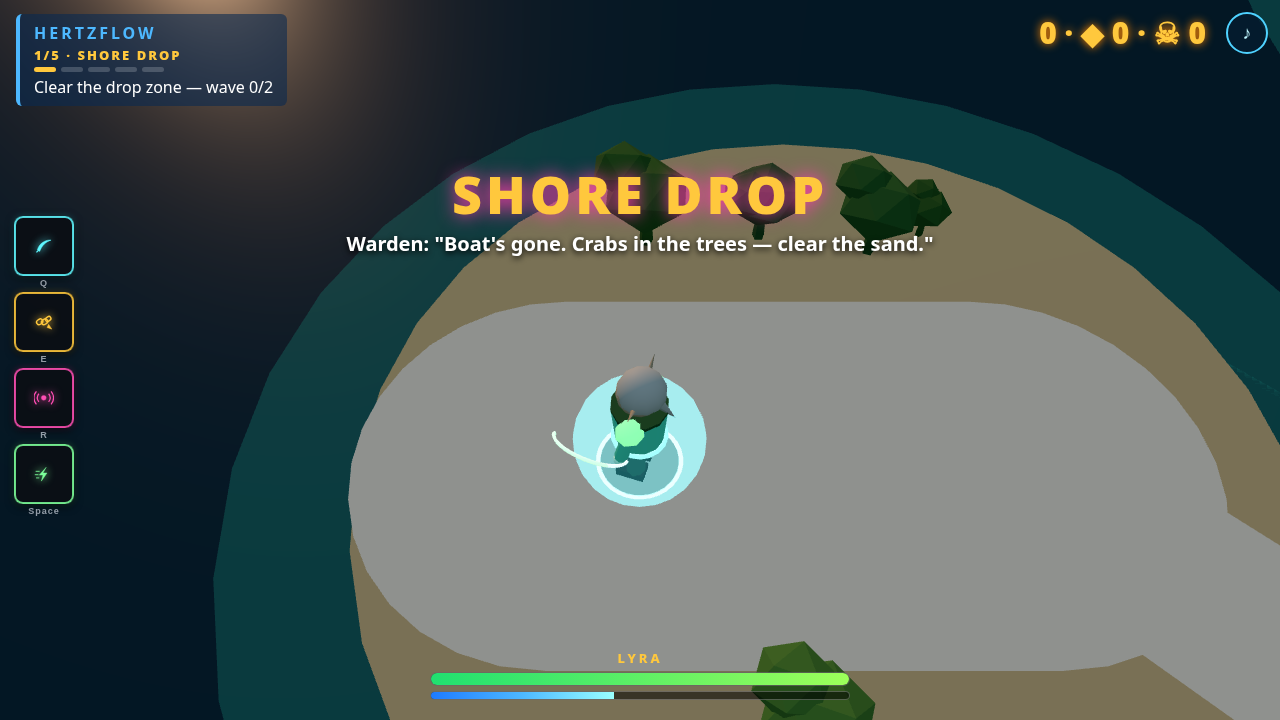
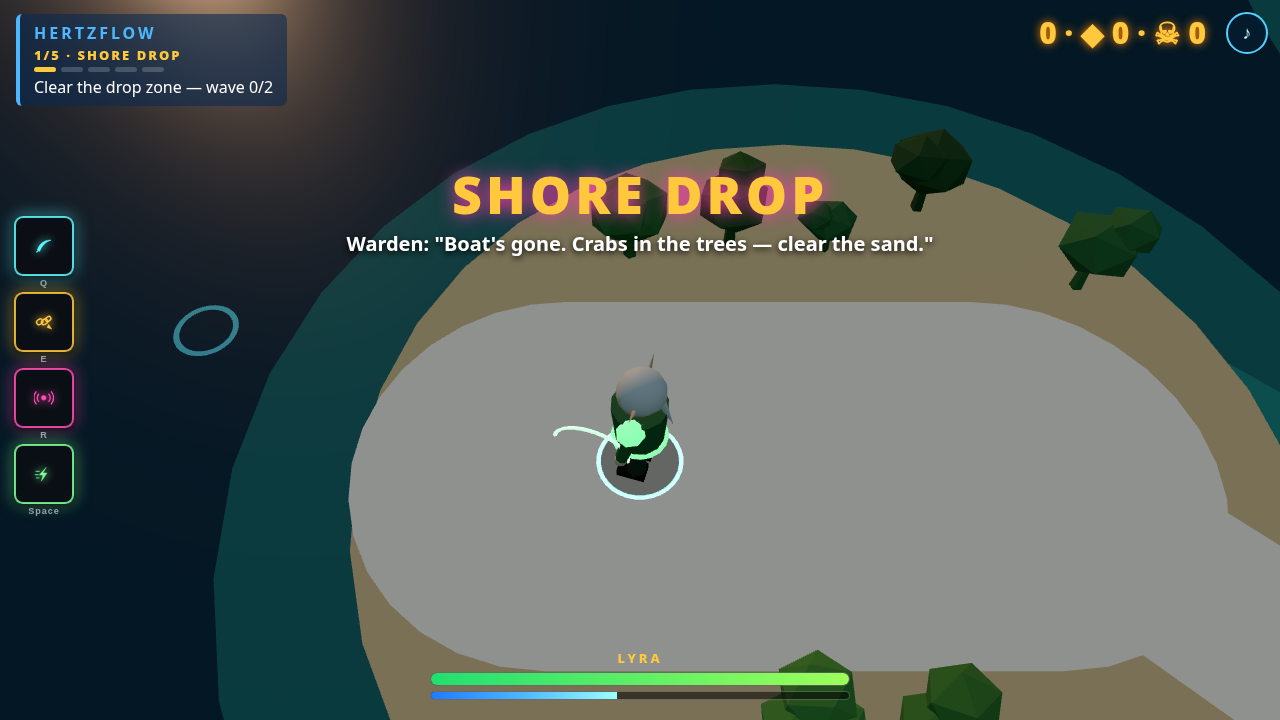
Combat feel: 18u acquire, canopy-edge spawn telegraph, cyan reticle + sticky cone, yaw dead-zone, clearer dodge hop, in-range foe name/HP

diff --git a/public/game.js b/public/game.js
@@ -410,9 +410,9 @@ const STATIC_COL = new THREE.Color(0xd8204e), HIT_COL = new THREE.Color(0xffffff
 
 // ===== enemies (crabs instanced; runners/brutes share STATIC) =====
 const TYPES = {
-  crab: { hp: 18, sp: 6, dmg: 3, r: .9, xp: 1 },
-  wick: { hp: 14, sp: 9.5, dmg: 3, r: .7, xp: 1 },
-  brute: { hp: 260, sp: 3.2, dmg: 22, r: 2.2, xp: 8 },
+  crab: { name: 'Driftwood Crab', hp: 18, sp: 6, dmg: 3, r: .9, xp: 1 },
+  wick: { name: 'Wick Runner', hp: 14, sp: 9.5, dmg: 3, r: .7, xp: 1 },
+  brute: { name: 'Red Candle Brute', hp: 260, sp: 3.2, dmg: 22, r: 2.2, xp: 8 },
 };
 const MAXC = 320;
 function mergeG(list) { // tiny merge (non-indexed) so a crab part stays ONE instanced draw
@@ -478,8 +478,10 @@ function floatTxt(p, t, big = false, col = '#fff') { const v = +t;
 function drawOverlay(dt) {
   const w = innerWidth, h = innerHeight; if (ov.width !== w * DPR) { DPR = Math.min(devicePixelRatio, 2); ov.width = w * DPR; ov.height = h * DPR; }
   ox.setTransform(DPR, 0, 0, DPR, 0, 0); ox.clearRect(0, 0, w, h); if (S.mode !== 'play' && S.mode !== 'end') return;
-  for (const e of enemies) { if (e.hp >= e.mhp) continue; const [sx, sy] = toScreen(e.pos, e.type === 'brute' ? 7 : 3.2), bw = e.type === 'brute' ? 70 : 30;
-    ox.fillStyle = 'rgba(0,0,0,.7)'; ox.fillRect(sx - bw / 2 - 1, sy - 1, bw + 2, 5); ox.fillStyle = '#ff2a3a'; ox.fillRect(sx - bw / 2, sy, bw * Math.max(0, e.hp / e.mhp), 3); }
+  ox.textAlign = 'center'; ox.font = '600 10px system-ui,sans-serif';
+  for (const e of enemies) { const d = Math.hypot(e.pos.x - zayn.position.x, e.pos.z - zayn.position.z); if (d > ACQ && e.type !== 'brute') continue; const [sx, sy] = toScreen(e.pos, e.type === 'brute' ? 7 : 3.2), bw = e.type === 'brute' ? 70 : 28;
+    ox.fillStyle = 'rgba(0,0,0,.7)'; ox.fillRect(sx - bw / 2 - 1, sy - 1, bw + 2, 5); ox.fillStyle = '#ff2a3a'; ox.fillRect(sx - bw / 2, sy, bw * Math.max(0, e.hp / e.mhp), 3);
+    if (e === S.lock || e.type === 'brute') { ox.lineWidth = 3; ox.strokeStyle = 'rgba(0,0,0,.8)'; ox.strokeText(e.T.name, sx, sy - 5); ox.fillStyle = e === S.lock ? '#bff8ff' : '#e8e8e8'; ox.fillText(e.T.name, sx, sy - 5); } }
   ox.textAlign = 'center'; ox.lineJoin = 'round';
   for (let i = nums.length - 1; i >= 0; i--) { const n = nums[i]; n.t += dt; if (n.t > .9) { nums.splice(i, 1); continue; }
     n.vy += 900 * dt; const [sx, sy] = toScreen(n, n.y); n.ox = (n.ox || 0) + n.vx * dt; n.oy = Math.min((n.oy || 0) + n.vy * dt, 10);
@@ -511,10 +513,10 @@ const show = (id, on) => $(id).classList.toggle('hide', !on);
 const BG_DAY = new THREE.Color(0xffc49a), BG_DARK = new THREE.Color(0x0a0c12);
 function setArena(on) { const zc = MODELS.zayn && MODELS.zayn.userData.combat; if (zc) zc(on); arena.visible = on; decor.forEach(o => o.visible = !on); ocean.visible = !on; scene.background = on ? new THREE.Color(MAP.fog) : BG_DAY; scene.fog.color.set(on ? MAP.fog : 0xffd2a8); scene.fog.near = on ? 70 : 90; scene.fog.far = on ? 170 : 320; hemi.intensity = on ? (MAP.storm ? .55 : .75) : 1.1; sun.intensity = on ? (MAP.storm ? .6 : 1.1) : 1.9; sky.visible = !on; }
 
-function clearField() { enemies.forEach(e => e.mesh && scene.remove(e.mesh)); enemies.length = 0; gems.length = 0; nums.length = 0; decals.forEach(d => scene.remove(d.m)); decals.length = 0; }
+function clearField() { S.runTok = (S.runTok || 0) + 1; enemies.forEach(e => e.mesh && scene.remove(e.mesh)); enemies.length = 0; gems.length = 0; nums.length = 0; decals.forEach(d => scene.remove(d.m)); decals.length = 0; }
 function startCine() {
   $('#title').classList.remove('on'); show('#title', false); show('#cine', true); show('#hud', false); show('#end', false);
-  S.mode = 'over'; S.t = 0; boat.visible = false; setArena(false); clearField(); shield.visible = false; clouds.visible = true; scene.fog.far = 2000; cover.forEach(c => c.material.opacity = 0); scene.add(crumb);
+  S.mode = 'over'; S.t = 0; reticle.visible = false; boat.visible = false; setArena(false); clearField(); shield.visible = false; clouds.visible = true; scene.fog.far = 2000; cover.forEach(c => c.material.opacity = 0); scene.add(crumb);
   // overview flies the selected map's logo silhouette (green canopy), not the old archipelago
   buildMap(MAPID); arena.visible = true; decor.forEach(o => o.visible = false); ocean.visible = false; scene.background = new THREE.Color(MAP.fog);
   { const bb = new THREE.Box3(); mapG.children.forEach(c => { if (c.geometry && c.geometry.type !== 'PlaneGeometry') bb.expandByObject(c); }); const c = bb.getCenter(new THREE.Vector3()), sz = bb.getSize(new THREE.Vector3()); S.ovC = [c.x, c.z]; S.ovR = Math.max(sz.x, sz.z); }
@@ -558,7 +560,8 @@ function spawn(type, ang) { const T = TYPES[type], a = ang ?? Math.random() * 6.
   const bs = type === 'brute' && SECTIONS[S.sec] && SECTIONS[S.sec].boss, e = { type, T, pos: bs ? new THREE.Vector3(bs[0], 0, bs[1]) : landSpawn(ang), hp: T.hp * (1 + (S.sec || 0) * .35 + Math.max(0, S.wave - 1) * .15), mhp: T.hp * (1 + (S.sec || 0) * .35 + Math.max(0, S.wave - 1) * .15), stun: 0, kb: new THREE.Vector3(), atk: 0, hit: 0, tel: 0, yaw: 0, mesh: type === 'crab' ? null : makeMesh(type) };
   
   if (type === 'brute') { e.mesh.scale.setScalar(1.15); banner('RED CANDLE BRUTE', '#ff2a5a'); }
-  enemies.push(e); burst(e.pos.clone().setY(1), [0xff1450, 0xa24cff], 10, 5, 4);
+  if (bs) { enemies.push(e); return; }
+  ring(e.pos, 0xff2bd6, 2.4, .4, .25, .06); const tok = S.runTok; setTimeout(() => { if (S.runTok === tok && S.mode === 'play') enemies.push(e); }, 400); // 0.4s canopy-edge rim telegraph
 }
 function best() { const b = Math.max(+localStorage.getItem('sw_best') || 0, S.score); localStorage.setItem('sw_best', b); return b; }
 function win() { addMerits(S.xp + 100); S.mode = 'end'; setTimeout(() => { show('#retry', false); tower.visible = false; $('#endT').textContent = 'MISSION COMPLETE'; $('#endT').style.color = '#4DB8FF'; $('#endS').textContent = `${MAP.name} secured · ${S.kills} Static cleared · ${S.xp} gems · score ${S.score} · best ${best()}. Next: Moonleaf Oval. +${S.xp + 100} Merits (◆ ${merits()}).`; show('#end', true); }, 900); }
@@ -632,6 +635,7 @@ function use(p) { if (S.mode !== 'play' || S.cd[p] > 0) return; if (COST[p] && S
 addEventListener('keydown', e => { keys[e.code] = true; const m = { KeyQ: 'wave', KeyE: 'chain', KeyR: 'roar', Space: 'dodge' }[e.code]; if (m) { use(m); e.preventDefault(); } if (S.mode === 'over' && (e.code === 'Enter' || e.code === 'Escape')) { startBoat(); } else if (S.mode === 'cine' && (e.code === 'Enter' || e.code === 'Escape')) landOnBeach(); });
 addEventListener('keyup', e => keys[e.code] = false);
 document.querySelectorAll('.p').forEach(b => b.addEventListener('pointerdown', e => { e.stopPropagation(); use(b.dataset.p); }));
+const ACQ = 18; const reticle = new THREE.Mesh(new THREE.RingGeometry(.82, 1, 40).rotateX(-Math.PI / 2), new THREE.MeshBasicMaterial({ color: 0x5ff8ff, transparent: true, opacity: .6, depthWrite: false, blending: THREE.AdditiveBlending })); reticle.visible = false; scene.add(reticle);
 const mouse = { x: 0, y: 0, on: false, down: false, ray: new THREE.Raycaster(), plane: new THREE.Plane(new THREE.Vector3(0, 1, 0), 0), hit: new THREE.Vector3() };
 $('#c').addEventListener('pointerdown', e => { if (e.pointerType === 'mouse' && e.button === 0) mouse.down = true; });
 addEventListener('pointerup', () => mouse.down = false);
@@ -701,23 +705,27 @@ function tick(now) {
       const ix = (keys.KeyD || keys.ArrowRight ? 1 : 0) - (keys.KeyA || keys.ArrowLeft ? 1 : 0) + joy.x, iz = (keys.KeyS || keys.ArrowDown ? 1 : 0) - (keys.KeyW || keys.ArrowUp ? 1 : 0) + joy.y;
       const mv = new THREE.Vector3(ix, 0, iz), ml = Math.min(1, mv.length()); if (ml > .1) mv.normalize();
       // aim: mouse on ground, else nearest enemy, else move dir
-      let tgt = null;
-      if (mouse.on) { mouse.ray.setFromCamera({ x: mouse.x, y: mouse.y }, cam); if (mouse.ray.ray.intersectPlane(mouse.plane, mouse.hit)) tgt = mouse.hit; }
-      else { const n = nearest(26); if (n) tgt = n.pos; }
-      if (tgt) S.yaw = Math.atan2(tgt.x - zayn.position.x, tgt.z - zayn.position.z); else if (ml > .1) S.yaw = Math.atan2(mv.x, mv.z);
+      let tgt = null; S.lock = null; const zp0 = zayn.position;
+      if (mouse.on) { mouse.ray.setFromCamera({ x: mouse.x, y: mouse.y }, cam); if (mouse.ray.ray.intersectPlane(mouse.plane, mouse.hit)) { tgt = mouse.hit;
+          // soft sticky: readable foe inside a ~22° cone of the cursor direction nudges aim; cursor always wins outside the cone
+          const ma = Math.atan2(tgt.x - zp0.x, tgt.z - zp0.z); let bs = .38, be = null; for (const e of enemies) { const d = Math.hypot(e.pos.x - zp0.x, e.pos.z - zp0.z); if (d > ACQ) continue; let da = Math.atan2(e.pos.x - zp0.x, e.pos.z - zp0.z) - ma; da = Math.abs(Math.atan2(Math.sin(da), Math.cos(da))); if (da < bs) { bs = da; be = e; } }
+          if (be) { S.lock = be; tgt = be.pos; } } }
+      else { const keepT = S.autoT && enemies.includes(S.autoT) && Math.hypot(S.autoT.pos.x - zp0.x, S.autoT.pos.z - zp0.z) < ACQ + 2 ? S.autoT : null; S.autoT = keepT || nearest(ACQ); if (S.autoT) { tgt = S.autoT.pos; S.lock = S.autoT; } } // hysteresis: no target flip-flop
+      if (tgt) S.yaw = Math.atan2(tgt.x - zp0.x, tgt.z - zp0.z); else if (ml > .1) S.yaw = Math.atan2(mv.x, mv.z);
+      reticle.visible = !!(S.lock || mouse.on); if (reticle.visible) { const rp = S.lock ? S.lock.pos : mouse.hit; reticle.position.set(rp.x, .25, rp.z); const rs = (S.lock ? 2.6 : 1.8) * (1 + Math.sin(S.t * 8) * .06); reticle.scale.set(rs, rs, rs); reticle.material.opacity = S.lock ? .85 : .4; }
       const top = CH.speed * (S.frenzy > 0 ? 1.3 : 1); if (!S.vel) S.vel = new THREE.Vector3();
       if (S.dodge > 0) { S.dodge -= dt; S.vel.copy(S.dodgeDir).multiplyScalar(58 * (.4 + S.dodge / .18 * .6)); burst(zayn.position.clone().setY(1.5), [CH.wave.col, 0xffffff], 4, 2, 1, 0); }
       else { const want = mv.clone().multiplyScalar(top * ml), k = 1 - Math.exp(-dt * (ml > .1 ? 22 : 30)); S.vel.lerp(want, k); } // snappy accel, near-instant stop
       zayn.position.addScaledVector(S.vel, dt); const spd = S.vel.length(); S.stride = (S.stride || 0) + spd * dt * .55;
-      const hop = S.dodge > 0 ? Math.sin((1 - S.dodge / .18) * Math.PI) * 1.4 : Math.abs(Math.sin(S.stride * Math.PI)) * Math.min(1, spd / top) * .55; zayn.position.y = .3 + hop;
+      const hop = S.dodge > 0 ? Math.sin((1 - S.dodge / .18) * Math.PI) * 2.1 : Math.abs(Math.sin(S.stride * Math.PI)) * Math.min(1, spd / top) * .55; zayn.position.y = .3 + hop;
       const lean = Math.min(.28, spd / top * .22); zayn.rotation.x = lean * Math.cos(Math.atan2(S.vel.x, S.vel.z) - zayn.rotation.y) * (S.dodge > 0 ? 2 : 1);
       zayn.scale.set(1, 1 + (S.land = Math.max(0, (S.land || 0) - dt * 6)) * -.18 + (S.dodge > 0 ? .1 : 0), 1); if (hop < .03 && spd > 3 && !S.wasDown) { S.land = .6; } S.wasDown = hop < .03; clampTo(zayn.position, (x, z) => pathD(x, z, S.open ?? 0), 0);
-      let dy = S.yaw - zayn.rotation.y; dy = Math.atan2(Math.sin(dy), Math.cos(dy)); zayn.rotation.y += dy * Math.min(1, dt * 40); // snap-to-face
+      let dy = S.yaw - zayn.rotation.y; dy = Math.atan2(Math.sin(dy), Math.cos(dy)); zayn.rotation.y += Math.abs(dy) < .04 ? 0 : dy * Math.min(1, dt * 28); // snap-to-face, dead-zone kills jitter
       const ud = zayn.userData, w = spd > 2 ? Math.sin(S.stride * Math.PI) * .9 : 0; ud.legL.rotation.x = w; ud.legR.rotation.x = -w; ud.tail.rotation.z = Math.sin(S.t * 3) * .25; ud.core.rotation.y += dt * 3; tower.userData.core.rotation.y += dt * 1.5;
       S.swing = Math.max(0, S.swing - dt); ud.armR.rotation.x = S.swing > 0 ? -2.2 + (.2 - S.swing) * 16 : -.2 + w * .3;
       for (const k in S.cd) S.cd[k] = Math.max(0, S.cd[k] - dt); S.iframes -= dt; S.buff -= dt; S.frenzy = (S.frenzy || 0) - dt; S.en = Math.min(100, S.en + dt * 3);
       // auto-fire WAVE (kite + shoot); mouse hold / Q also fires
-      if (mouse.down || (!mouse.on && nearest(24)) || (mouse.on && nearest(26))) use('wave');
+      if (mouse.down || S.lock) use('wave'); // auto-fire only on a readable foe (≤ACQ), never into canopy fog
       if (S.spawnQ.length) { S.spawnT -= dt; if (S.spawnT <= 0) { const a = Math.random() * 6.28, n = Math.min(S.spawnQ.length, 4 + S.wave * 2); for (let k = 0; k < n; k++) spawn(S.spawnQ.shift(), a + (Math.random() - .5) * .9); S.spawnT = 1.4 - S.wave * .2; } }
       else if (S.wave && S.wave >= WAVES.length) { const c = SECTIONS[S.sec];
         if (c.hold && S.hold < c.hold) { if (enemies.length < 10) S.spawnQ.push(...rep('crab', 8)); } // keep pressure until the tower is restored

diff --git a/docs/DESIGN.md b/docs/DESIGN.md
@@ -97,3 +97,10 @@ Boat: longer hull, raked windshield, outboard cowling, soft bob/roll, denser wak
 
 ## Class cards (Bone King layout)
 Gold/charcoal plate, mini silhouette, role chip, 1-liner, 3 kit icons (wave/chain/roar), hard gold select border. Starters: Lyra · Scout, Hertzling · Spirit, Chado · Blade. Locked cards show "—" until tease lines land.
+
+## Combat feel (art lock)
+- Acquire 18u: auto-fire only on a foe inside acquire range; never into canopy fog. Auto-target has hysteresis (no flip-flop).
+- Spawn telegraph: 0.4s thin magenta rim at the canopy-edge spawn point, then the foe enters (no body flash).
+- Cursor: soft cyan ground reticle; sticky ~22° cone snaps to a readable foe; outside the cone the cursor always wins.
+- Facing dead-zone kills yaw jitter; dodge hop 2.1u.
+- Foe read: tiny HP bar only within range; locked foe shows its name (Driftwood Crab / Wick Runner / Red Candle Brute). Float numbers + white hit-flash unchanged.
